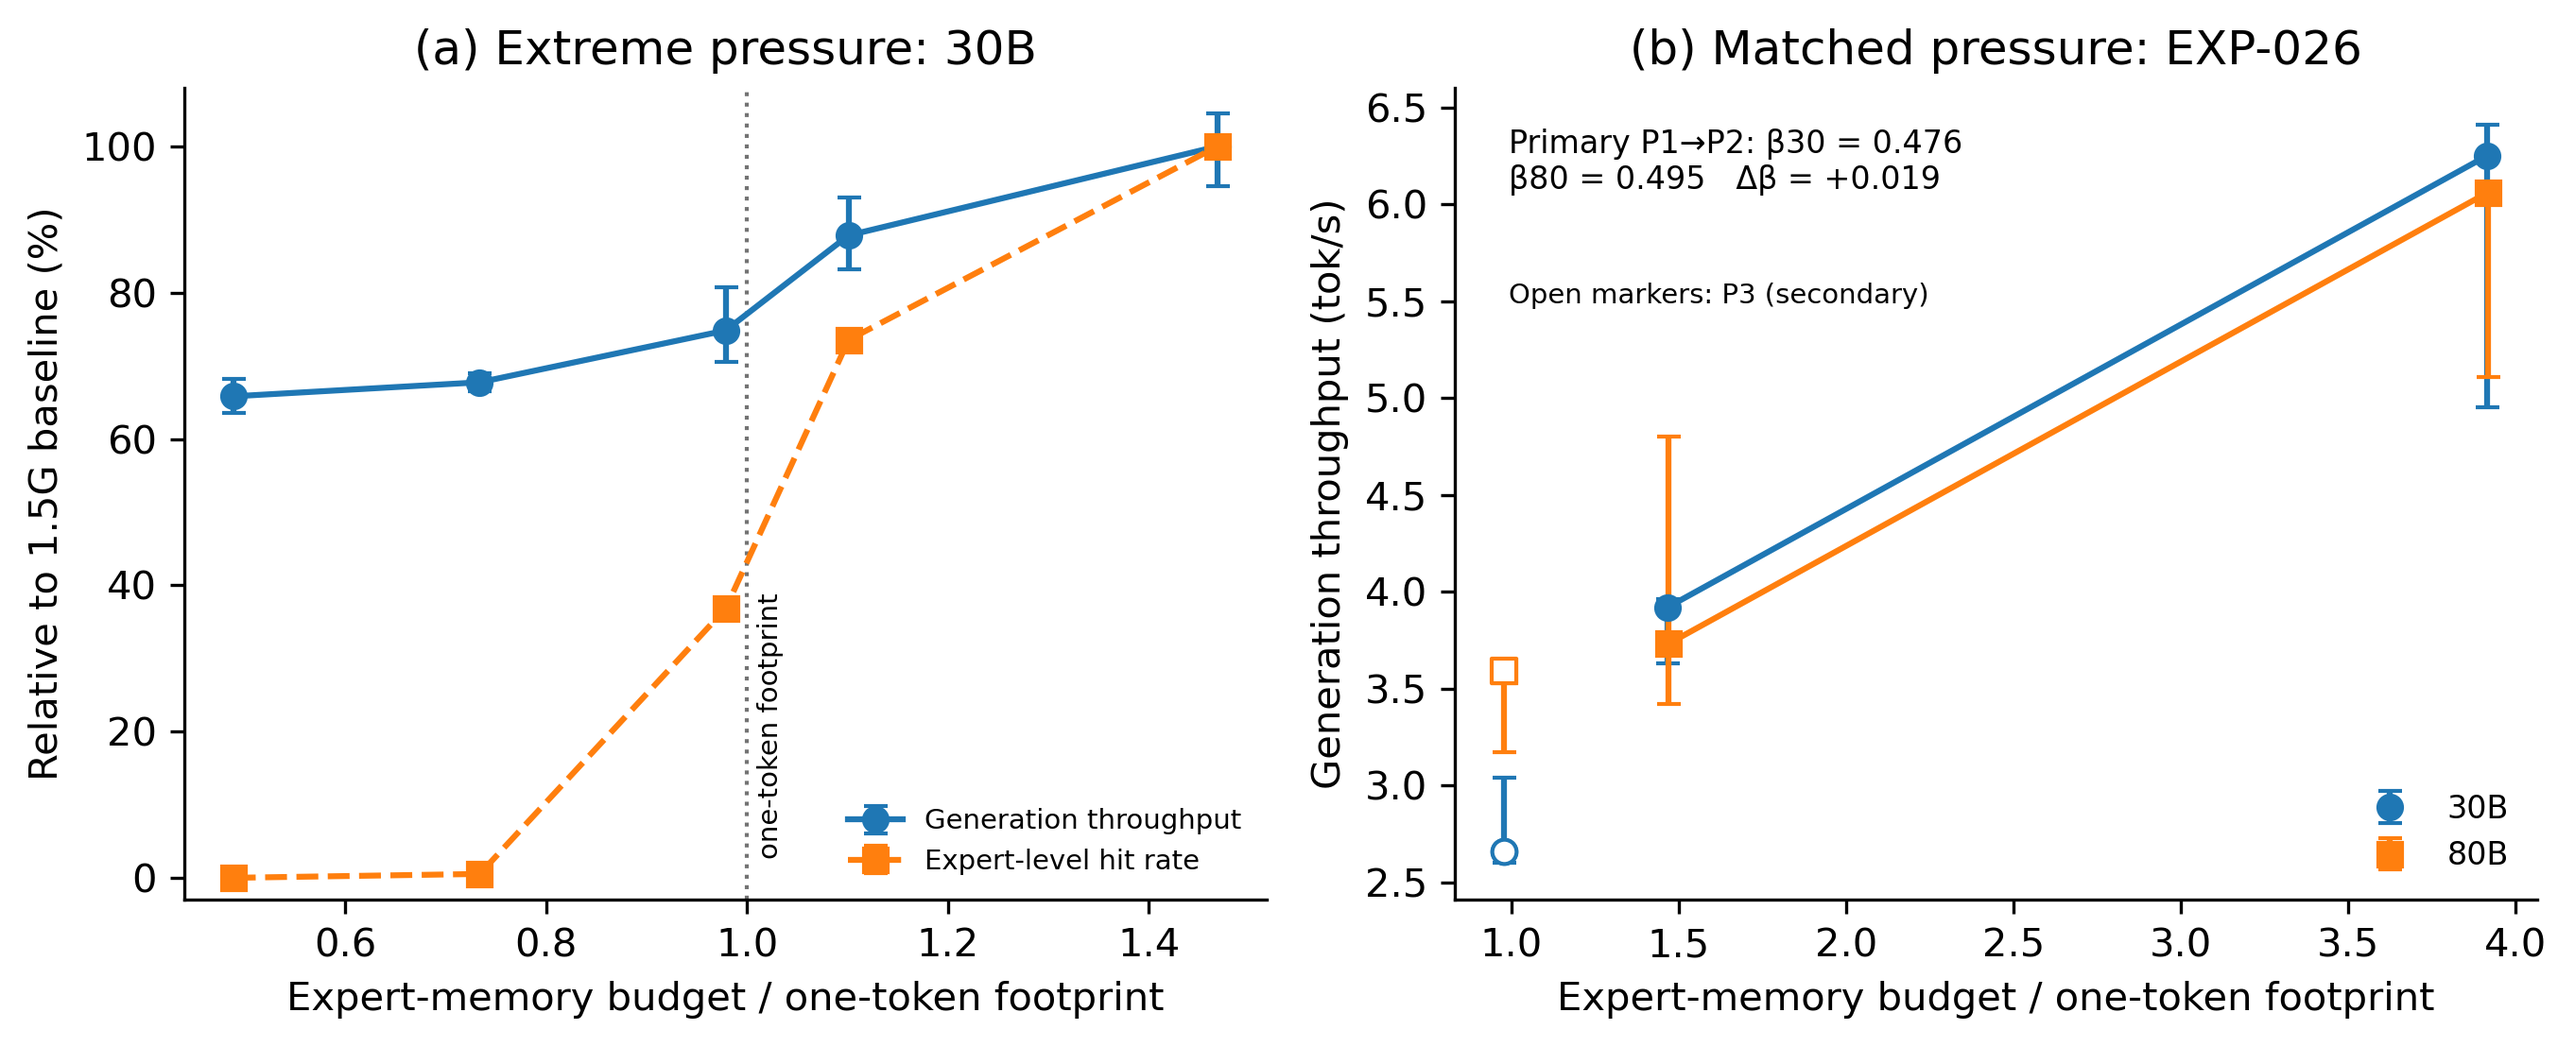
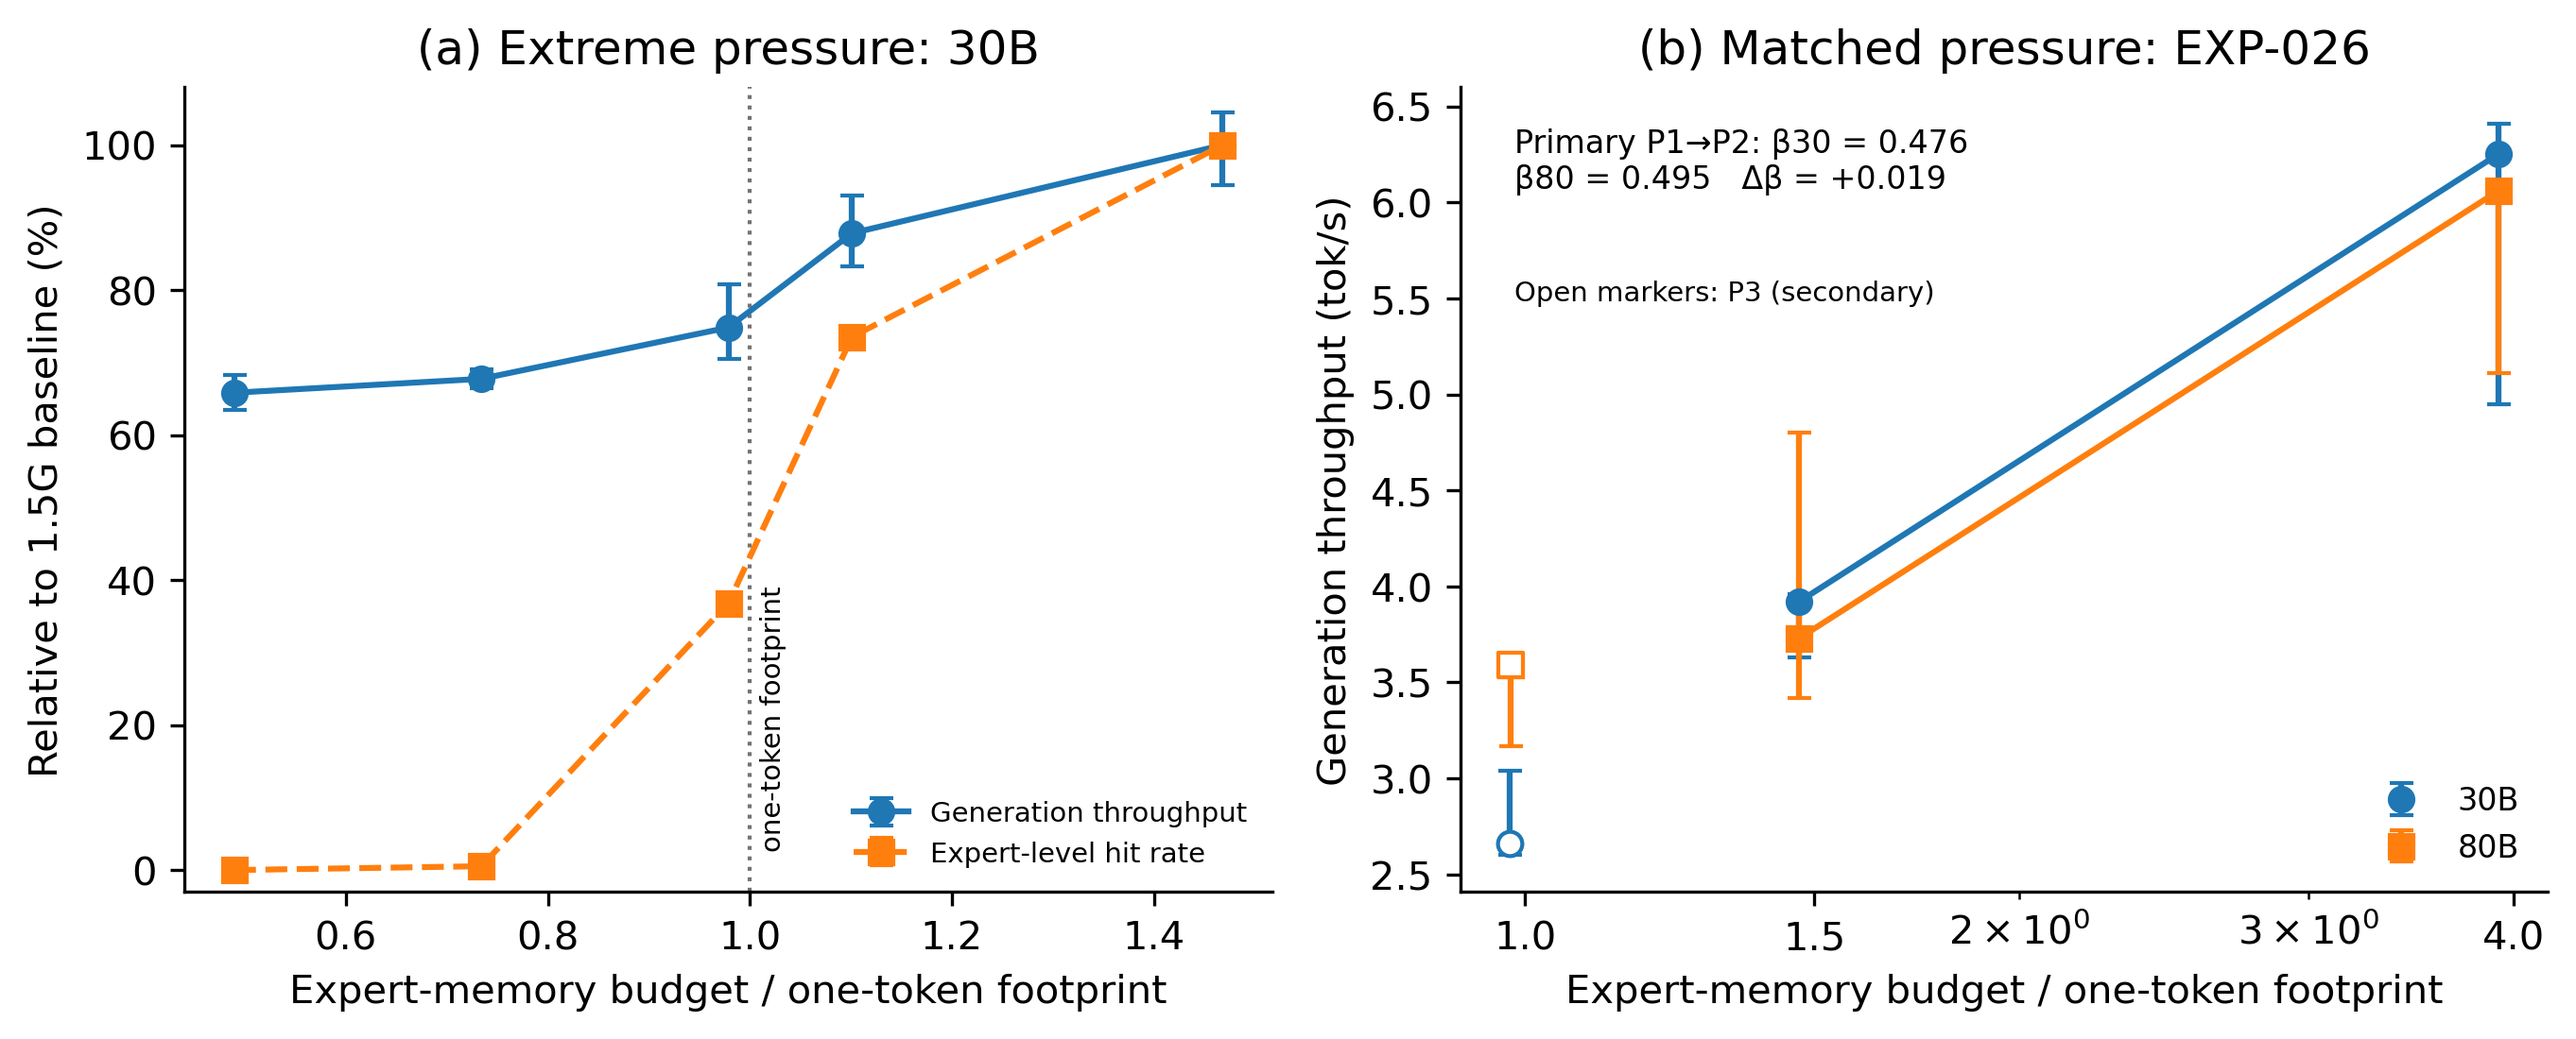
Apply post-review paper corrections

diff --git a/paper/sections/01_introduction.tex b/paper/sections/01_introduction.tex
@@ -3,7 +3,7 @@
 
 Mixture-of-experts (MoE) architectures increase model capacity by activating only a subset of experts for each token. This conditional computation changes the memory problem, but it does not remove it. When the complete expert set does not fit in DRAM, inference must decide which expert weights remain resident, which are evicted, and which non-resident experts are fetched from secondary storage. Under a hard expert-memory budget, these decisions interact with routing, I/O concurrency, and the temporal structure of the workload.
 
-A natural first abstraction is \emph{residency}: performance should improve as a larger fraction of the expert weights fits in memory. Our measurements show that this view is incomplete. Equal-sized layers do not exhibit equal working-set demand. The same number of misses can imply different stall time because reads overlap differently at different queue depths. Routing distributions can drift across workload boundaries without a controller obtaining useful gain from reacting quickly to that drift. Moreover, pressure regimes measured for different models and binaries need not collapse onto a single law when memory is normalized by expert footprint.
+A natural first abstraction is \emph{residency}: performance should improve as a larger fraction of the expert weights fits in memory. Our measurements show that this view is incomplete. Equal-sized layers do not exhibit equal working-set demand. The same number of misses can imply different stall time because reads overlap differently at different queue depths. Routing distributions can drift across workload boundaries without a controller obtaining useful gain from reacting quickly to that drift. Moreover, historical pressure-response differences observed across models and binaries in different pressure regions need not reproduce in a matched-$M/F$ comparison on the current runtime.
 
 This paper studies that gap between nominal residency and realized performance. We use \argine{}, an experimental framework for CPU-only MoE inference with expert weights streamed from NVMe under an explicit DRAM cap. The goal is not to present a universal production memory manager. Instead, we use controlled replay, end-to-end execution, preregistered experiments, and negative results to isolate which parts of the problem are explained by layer allocation, which remain attributable to expert selection and I/O behavior, and which apparently simple performance abstractions fail under stronger pressure.
 
@@ -37,8 +37,8 @@ The paper makes six empirical and methodological contributions:
     \item \textbf{Allocation versus selection.} We show that layer-aware allocation becomes increasingly valuable under memory pressure, while the remaining future-informed expert-selection headroom is substantially larger than the allocation gain.
     \item \textbf{Temporal adaptation.} We measure strong routing-distribution drift at workload boundaries but falsify the temporal mechanism of the current \texttt{adaptive-e64} controller: a fixed allocation equal to its mean allocation explains most or all of the observed gain.
     \item \textbf{Metric semantics.} We separate expert-level reuse from runtime-style hit accounting and show why miss count alone is insufficient to model elapsed time under changing I/O concurrency.
-    \item \textbf{Interpretable latency prediction.} A decomposition of token latency into compute, unhidden I/O, synchronization, and controller components achieves a median leave-one-configuration-out absolute percentage error of 2.25\% on the preregistered 30B primary test.
-    \item \textbf{Pressure-regime limits.} Extreme-pressure and matched-pressure experiments show that neither resident fraction nor one-token expert footprint acts as a universal feasibility or performance threshold across the evaluated conditions.
+    \item \textbf{Interpretable latency prediction.} A decomposition of token latency into compute, unhidden I/O, synchronization, and controller components achieves a median leave-one-configuration-out absolute percentage error of 2.25\% on the preregistered 30B primary test; the decomposition is predictive rather than component-identifying.
+    \item \textbf{Pressure-regime limits.} Extreme-pressure experiments show that the one-token expert footprint is not a hard execution threshold, and a preregistered matched-pressure experiment does not reproduce the historical cross-model regime difference.
 \end{enumerate}
 
 Together, these results support a more cautious systems abstraction: expert residency under hard memory constraints should be treated as a coupled allocation-and-retention problem whose performance is mediated by routing structure, selection quality, and I/O concurrency. We do not claim that this settles the general theory of MoE memory management; rather, it identifies which simpler abstractions fail in the evaluated regimes and where the largest measured optimization headroom remains.

diff --git a/paper/sections/03_methodology.tex b/paper/sections/03_methodology.tex
@@ -5,7 +5,7 @@
 
 All measurements in this paper were collected on one controlled consumer machine; hardware generalization is therefore outside the scope of the empirical claims. The reference system uses an Intel Core i5-1340P with four performance cores, eight efficiency cores, 16 logical CPUs, and AVX2 support; 16\,GB of RAM (15.72\,GiB usable); NVMe storage; integrated Intel Iris Xe graphics; and Windows~11. All reported model execution uses the CPU backend with zero GPU layers.
 
-The expert-store runtime is a patched \texttt{llama.cpp}. The current research binary used by the later confirmatory experiments is based on \texttt{llama.cpp} commit \texttt{254b177} with the Argine expert-store and research instrumentation. It uses asynchronous direct I/O, bypassing the operating-system file cache on the measured expert-store path. Unless an experiment explicitly states otherwise, the later frozen configuration uses context size 4096, batch size 2048, micro-batch size 512, f16 KV storage, flash attention enabled, and pretouch disabled.
+The expert-store runtime is a patched \texttt{llama.cpp}~\cite{gerganov2023llamacpp}. The current research binary used by the later confirmatory experiments is based on \texttt{llama.cpp} commit \texttt{254b177} with the Argine expert-store and research instrumentation. It uses asynchronous direct I/O, bypassing the operating-system file cache on the measured expert-store path. Unless an experiment explicitly states otherwise, the later frozen configuration uses context size 4096, batch size 2048, micro-batch size 512, f16 KV storage, flash attention enabled, and pretouch disabled.
 
 The repository retains historical binary provenance because the binary itself is an experimental variable. The EXP-007 characterization campaign spans the validated trace formats used during its collection; later controlled experiments use the current \texttt{llama-research-v2} runtime. We do not pool timings across binaries unless the corresponding experiment explicitly licenses that comparison.
 
@@ -22,7 +22,7 @@ Table~\ref{tab:models} summarizes the two experimental regimes. We refer to them
         \toprule
         & \textbf{30B} & \textbf{80B} \\
         \midrule
-        Model & Qwen3-30B-A3B & Qwen3-Next-80B-A3B-Instruct \\
+        Model & Qwen3-30B-A3B~\cite{qwen3technicalreport} & Qwen3-Next-80B-A3B-Instruct~\cite{qwen3next2025} \\
         Total / active parameters & 30.5B / 3.35B & 79.7B / 3.87B \\
         MoE layers & 48 & 48 \\
         Routed experts / layer & 128 & 512 \\
@@ -89,7 +89,7 @@ The 30B performance-model experiment uses five memory configurations spanning 1.
 The design tests predictive usefulness of this decomposition; it does not guarantee separate causal identification of each fitted component.
 
 \paragraph{Matched-pressure cross-model test.}
-The final cross-model experiment fixes generation threads at four for both models and matches memory pressure using $\rho=M/F$. Three pressure points are measured with three complete launches per cell. The preregistered primary explanandum compares the P1$\rightarrow$P2 pressure-response exponent; P3 is secondary. This design was introduced specifically because earlier cross-model observations differed simultaneously in binary, thread count, and pressure region.
+The final cross-model experiment fixes generation threads at four for both models and matches memory pressure using $\rho=M/F$. Three pressure points are measured with three complete launches per cell. The preregistered primary explanandum compares the P1$\rightarrow$P2 pressure-response exponent; P3 is secondary. This design was introduced specifically because the historical cross-model observations compared different normalized pressure regions on earlier binaries.
 
 \subsection{Measurement semantics}
 

diff --git a/paper/main.tex b/paper/main.tex
@@ -41,7 +41,7 @@
 \maketitle
 
 \begin{abstract}
-Mixture-of-experts (MoE) models decouple total parameter count from per-token computation, but under hard DRAM limits their inactive parameters do not disappear: non-resident expert weights must be fetched, retained, and evicted under a dynamically changing routing workload. We study CPU-only expert streaming from NVMe across two MoE models, multiple workloads, and memory-pressure regimes. Expert working sets are heterogeneous across layers, and uniform per-layer memory partitioning is measurably suboptimal in the evaluated replay traces. The tested layer-aware allocation improves cache effectiveness under pressure, yet the remaining future-informed expert-selection headroom is substantially larger than the gain obtained from reallocation alone. Routing distributions change strongly across workload boundaries, but a fixed allocation equal to the tested controller's mean allocation explains most or all of its gain, falsifying the temporal mechanism of that controller without implying that dynamic adaptation is ineffective in general. An interpretable latency decomposition predicts measured 30B token latency with a median leave-one-configuration-out absolute percentage error of 2.25\%. Finally, extreme-pressure and matched-pressure experiments show that neither resident fraction nor the one-token expert footprint defines a universal feasibility or performance threshold. These results support treating expert residency as a joint allocation-and-retention problem rather than reducing it to cache capacity or conventional hit rate alone.
+Mixture-of-experts (MoE) models decouple total parameter count from per-token computation, but under hard DRAM limits their inactive parameters do not disappear: non-resident expert weights must be fetched, retained, and evicted under a dynamically changing routing workload. We study CPU-only expert streaming from NVMe across two MoE models, multiple workloads, and memory-pressure regimes. Expert working sets are heterogeneous across layers, and uniform per-layer memory partitioning is measurably suboptimal in the evaluated replay traces. The tested layer-aware allocation improves cache effectiveness under pressure, yet the remaining future-informed expert-selection headroom is substantially larger than the gain obtained from reallocation alone. Routing distributions change strongly across workload boundaries, but a fixed allocation equal to the tested controller's mean allocation explains most or all of its gain, falsifying the temporal mechanism of that controller without implying that dynamic adaptation is ineffective in general. An interpretable latency decomposition predicts measured 30B token latency with a median leave-one-configuration-out absolute percentage error of 2.25\%. Finally, extreme-pressure experiments show that the one-token expert footprint is not a hard execution threshold, and a preregistered matched-pressure experiment does not reproduce the historical cross-model regime difference. These results support treating expert residency as a joint allocation-and-retention problem rather than reducing it to cache capacity or conventional hit rate alone.
 \end{abstract}
 
 \input{sections/01_introduction}

diff --git a/paper/sections/07_performance_model.tex b/paper/sections/07_performance_model.tex
@@ -20,7 +20,7 @@ This also separates the runtime metrics from the replay's whole-expert event met
 
 \subsection{Misses do not have a constant wall-clock cost}
 
-The storage path is asynchronous. As pressure increases, more misses can create more reads in flight, increasing queue depth and improving I/O overlap. In the measured Argine data, the average cost per read decreases from approximately 1.233 to 1.063\,ms as the budget shrinks. Thus a policy that prevents one additional miss does not necessarily save a constant amount of time.
+The storage path is asynchronous. As pressure increases, more misses can create more reads in flight, increasing queue depth and improving I/O overlap. Consequently, the wall-clock cost of an additional miss need not be constant across configurations: a policy that prevents one additional miss does not necessarily save a fixed amount of time.
 
 This is why the performance question cannot be reduced to
 \[
@@ -74,4 +74,4 @@ The five leave-one-configuration-out errors in Table~\ref{tab:loo-predictions} h
 
 The success of Proposition~\ref{prop:latency-predictive} should not be read as a causal identification of every term. In the five primary configurations, \texttt{nodes\_per\_token} is constant at 142.875. The fitted intercept-like compute term and the synchronization term are therefore collinear. The fitted synchronization coefficient being effectively zero does \emph{not} establish that physical synchronization cost is zero.
 
-Likewise, reconstructed queue depths retain upper-bound status where completion timestamps are bounded, and tracing overhead is not independently bounded below 1.5\,GiB. EXP-025 supports the usefulness of a time-based decomposition over the tested range; it does not establish that its coefficients are unique physical constants. The broader conclusion is narrower but important: hit rate is useful for describing reuse, yet insufficient by itself to predict performance.
+Likewise, reconstructed queue depths retain upper-bound status where completion timestamps are bounded, and tracing overhead is not independently bounded at or below 1.5\,GiB. EXP-025 supports the usefulness of a time-based decomposition over the tested range; it does not establish that its coefficients are unique physical constants. The broader conclusion is narrower but important: hit rate is useful for describing reuse, yet insufficient by itself to predict performance.

diff --git a/paper/sections/08_pressure_regimes.tex b/paper/sections/08_pressure_regimes.tex
@@ -49,7 +49,7 @@ The 30B footprint is approximately 1.0217\,GiB. Valid performance launches compl
 
 \subsection{The historical cross-model regime difference does not reproduce at matched pressure}
 
-Historical sessions had suggested different sublinear pressure-response slopes for the two models, but those comparisons covered different normalized pressure regions and earlier binaries. EXP-026 prospectively removes two major confounds: both models use four generation threads, and the primary points are matched by $M/F$ on the current runtime.
+Historical sessions had suggested different sublinear pressure-response slopes for the two models, but those comparisons covered different normalized pressure regions and earlier binaries. EXP-026 prospectively removes two major confounds: the primary points are matched by $M/F$, and both models are measured on the current runtime within one session. Both models keep four generation threads, the thread condition of the historical comparison.
 
 For the primary P1$\rightarrow$P2 comparison, the observed median throughputs are:
 

diff --git a/tools/paper_figures.py b/tools/paper_figures.py
@@ -635,6 +635,9 @@ def figure6(write: bool) -> None:
     ax.set_xlabel("Expert-memory budget / one-token footprint")
     ax.set_ylabel("Generation throughput (tok/s)")
     ax.set_title("(b) Matched pressure: EXP-026")
+    ax.set_xscale("log")
+    ax.set_xticks([1.0, 1.5, 4.0])
+    ax.set_xticklabels(["1.0", "1.5", "4.0"])
     ax.legend(frameon=False, fontsize=8)
     ax.text(
         0.05,
